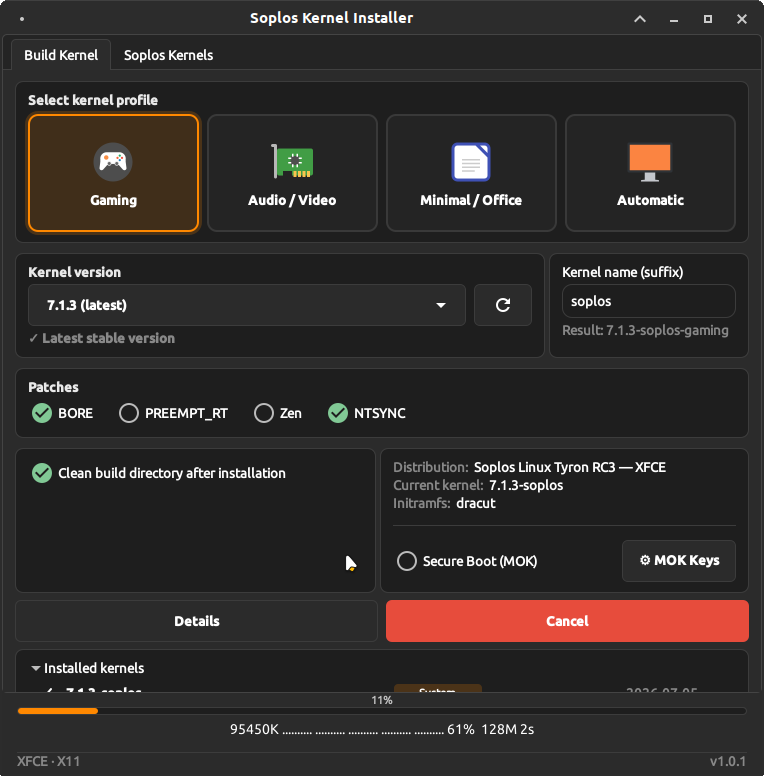
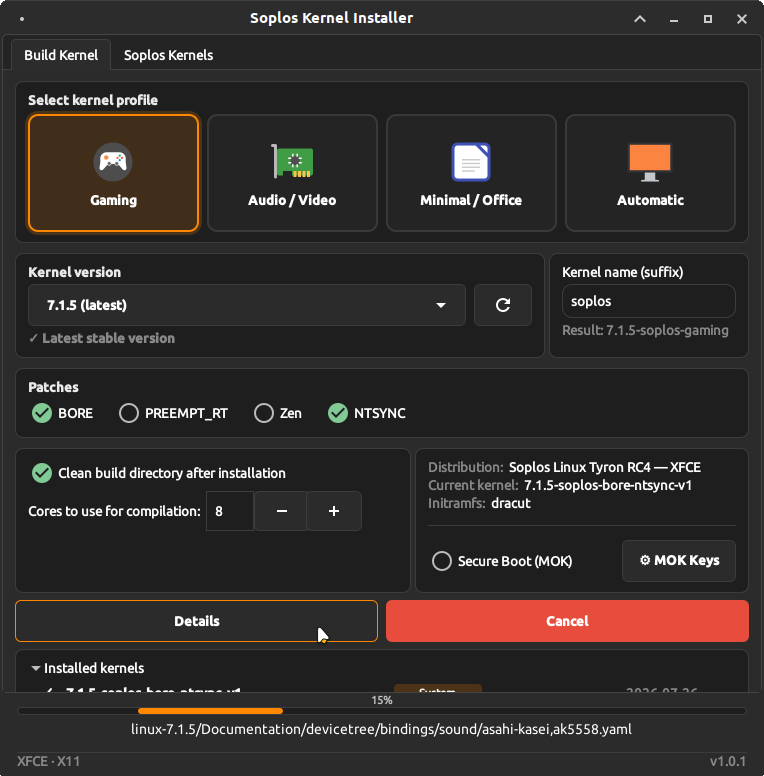
Update soplos kernel installer

diff --git a/app/main_window.py b/app/main_window.py
@@ -30,7 +30,7 @@ from core.profiles import ProfileType
 from config.constants import APP_VERSION as VERSION
 from utils.system import (
     reboot_system, get_build_directory, get_supported_march_level,
-    get_cpu_model, get_memory_info,
+    get_cpu_model, get_memory_info, get_cpu_count,
 )
 
 
@@ -192,6 +192,20 @@ class SoplosKernelInstallerWindow(Gtk.ApplicationWindow):
         )
         self._cleanup_check.set_active(True)
         options_inner.pack_start(self._cleanup_check, False, False, 0)
+
+        cores_row = Gtk.Box(orientation=Gtk.Orientation.HORIZONTAL, spacing=6)
+        cores_label = Gtk.Label(label=_("Cores to use for compilation:"))
+        cores_row.pack_start(cores_label, False, False, 0)
+
+        max_cores = get_cpu_count()
+        self._cores_spin = Gtk.SpinButton.new_with_range(1, max_cores, 1)
+        self._cores_spin.set_value(max_cores)
+        self._cores_spin.set_tooltip_text(
+            _("Number of CPU cores passed to make -j. Defaults to all logical cores ({}).").format(max_cores)
+        )
+        cores_row.pack_start(self._cores_spin, False, False, 0)
+
+        options_inner.pack_start(cores_row, False, False, 0)
 
         options_frame.add(options_inner)
         row3.pack_start(options_frame, True, True, 0)
@@ -435,6 +449,32 @@ class SoplosKernelInstallerWindow(Gtk.ApplicationWindow):
         repo_frame.add(repo_inner)
         box.pack_start(repo_frame, False, False, 0)
 
+        # Filters card — its own card, same pattern as repo_frame/kernels_frame,
+        # so the split from the kernels list is an actual card boundary, not a
+        # thin in-card separator line that's too subtle to notice on dark themes.
+        filters_frame = Gtk.Frame()
+        filters_frame.get_style_context().add_class('soplos-card')
+        filter_row = Gtk.Box(orientation=Gtk.Orientation.HORIZONTAL, spacing=8)
+
+        flavor_label = Gtk.Label(label=_("Profile:"))
+        filter_row.pack_start(flavor_label, False, False, 0)
+        self._kernel_flavor_filter = Gtk.ComboBoxText()
+        self._kernel_flavor_filter.append("all", _("All"))
+        self._kernel_flavor_filter.set_active_id("all")
+        self._kernel_flavor_filter.connect('changed', lambda w: self._on_kernel_filter_changed())
+        filter_row.pack_start(self._kernel_flavor_filter, False, False, 0)
+
+        march_label = Gtk.Label(label=_("Version:"))
+        filter_row.pack_start(march_label, False, False, 0)
+        self._kernel_march_filter = Gtk.ComboBoxText()
+        self._kernel_march_filter.append("all", _("All"))
+        self._kernel_march_filter.set_active_id("all")
+        self._kernel_march_filter.connect('changed', lambda w: self._on_kernel_filter_changed())
+        filter_row.pack_start(self._kernel_march_filter, False, False, 0)
+
+        filters_frame.add(filter_row)
+        box.pack_start(filters_frame, False, False, 0)
+
         # Kernels list card
         kernels_frame = Gtk.Frame()
         kernels_frame.get_style_context().add_class('soplos-card')
@@ -455,11 +495,12 @@ class SoplosKernelInstallerWindow(Gtk.ApplicationWindow):
         return scroll
 
     @staticmethod
-    def _soplos_pkg_display_name(pkg: str) -> str:
+    def _soplos_pkg_flavor_and_march(pkg: str):
+        """Split a linux-soplos* package name into (profile label, march label or None)."""
         _MARCH = {'v1', 'v2', 'v3', 'v4'}
         suffix = pkg[len('linux-soplos'):]
         if not suffix:
-            return _("Stock")
+            return (_("Stock"), None)
         parts = suffix.lstrip('-').split('-')
         march = parts[-1] if parts[-1] in _MARCH else None
         flavor = parts[:-1] if march else parts
@@ -469,7 +510,12 @@ class SoplosKernelInstallerWindow(Gtk.ApplicationWindow):
             label = '-'.join(flavor).upper()
         else:
             label = '-'.join(flavor).replace('-', ' ').title()
-        return f"{label} {march.upper()}" if march else label
+        return (label, march.upper() if march else None)
+
+    @staticmethod
+    def _soplos_pkg_display_name(pkg: str) -> str:
+        label, march = SoplosKernelInstallerWindow._soplos_pkg_flavor_and_march(pkg)
+        return f"{label} {march}" if march else label
 
     def _fetch_soplos_packages(self) -> None:
         def fetch():
@@ -546,6 +592,37 @@ class SoplosKernelInstallerWindow(Gtk.ApplicationWindow):
         self._soplos_updates = updates
         self._soplos_versions = versions
         self._soplos_apt_registered = apt_registered
+        self._populate_kernel_filters()
+        self._rebuild_kernels_list()
+        self._refresh_soplos_kernels_tab()
+
+    def _populate_kernel_filters(self) -> None:
+        """Fill the profile/version filter combos from the packages actually
+        present in the repo, so they never show a march level or profile that
+        isn't currently available (and pick up new ones — e.g. Zen — for free)."""
+        flavors = set()
+        marches = set()
+        for pkg, _name, _desc, _suffix in self._soplos_packages:
+            flavor, march = self._soplos_pkg_flavor_and_march(pkg)
+            flavors.add(flavor)
+            if march:
+                marches.add(march)
+
+        def _refill(combo: Gtk.ComboBoxText, values) -> None:
+            previous = combo.get_active_id()
+            combo.remove_all()
+            combo.append("all", _("All"))
+            for v in sorted(values):
+                combo.append(v, v)
+            combo.set_active_id(previous if previous in ({"all"} | values) else "all")
+
+        _refill(self._kernel_flavor_filter, flavors)
+        _refill(self._kernel_march_filter, marches)
+
+    def _on_kernel_filter_changed(self) -> None:
+        """Re-render the kernel list for the new filter selection. Buttons are
+        recreated blank by _rebuild_kernels_list() — _refresh_soplos_kernels_tab()
+        is what actually sets their label/style, so both must run together."""
         self._rebuild_kernels_list()
         self._refresh_soplos_kernels_tab()
 
@@ -564,8 +641,30 @@ class SoplosKernelInstallerWindow(Gtk.ApplicationWindow):
             self._kernels_rows.show_all()
             return
 
+        flavor_filter = self._kernel_flavor_filter.get_active_id() or "all"
+        march_filter = self._kernel_march_filter.get_active_id() or "all"
+
+        visible_packages = []
+        for entry in self._soplos_packages:
+            pkg = entry[0]
+            flavor, march = self._soplos_pkg_flavor_and_march(pkg)
+            if flavor_filter != "all" and flavor != flavor_filter:
+                continue
+            if march_filter != "all" and march != march_filter:
+                continue
+            visible_packages.append(entry)
+
+        if not visible_packages:
+            lbl = Gtk.Label(label=_("No kernels match the selected filters"))
+            lbl.get_style_context().add_class('dim-label')
+            lbl.set_margin_top(8)
+            lbl.set_margin_bottom(8)
+            self._kernels_rows.pack_start(lbl, False, False, 0)
+            self._kernels_rows.show_all()
+            return
+
         first = True
-        for pkg, name, desc, _suffix in self._soplos_packages:
+        for pkg, name, desc, _suffix in visible_packages:
             if not first:
                 self._kernels_rows.pack_start(Gtk.Separator(), False, False, 0)
             first = False
@@ -1723,6 +1822,7 @@ class SoplosKernelInstallerWindow(Gtk.ApplicationWindow):
 
         is_stock = (profile.id == ProfileType.STOCK)
         march_level = self._march_selector.get_march_level() if is_stock else None
+        cpu_count = int(self._cores_spin.get_value())
 
         def run_install():
             log_path = os.path.join(os.path.expanduser('~'), 'kernel_build', 'build.log')
@@ -1743,6 +1843,7 @@ class SoplosKernelInstallerWindow(Gtk.ApplicationWindow):
                 build_only=is_stock,
                 march_level=march_level,
                 enable_sched_ext=is_stock,
+                cpu_count=cpu_count,
             )
             GLib.idle_add(self._on_build_finished, success)
 

diff --git a/core/installer.py b/core/installer.py
@@ -211,10 +211,15 @@ class SoplosInstaller:
     # Build
     # ------------------------------------------------------------------
 
-    def build(self, version: str) -> bool:
-        """Compile the kernel as Debian packages."""
+    def build(self, version: str, cpu_count: Optional[int] = None) -> bool:
+        """Compile the kernel as Debian packages.
+
+        cpu_count: user-chosen core count for `make -j`. None (or < 1) falls
+        back to the logical core count — same as before this was configurable.
+        """
         source_dir = os.path.join(self._build_dir, f"linux-{version}")
-        cpu_count = get_cpu_count()
+        if not cpu_count or cpu_count < 1:
+            cpu_count = get_cpu_count()
 
         self._report_progress(f"Compiling with {cpu_count} cores...", 30)
 

diff --git a/core/kernel.py b/core/kernel.py
@@ -266,6 +266,7 @@ class KernelManager:
         build_only: bool = False,
         march_level: Optional[str] = None,
         enable_sched_ext: bool = False,
+        cpu_count: Optional[int] = None,
     ) -> bool:
         """
         Full kernel install:
@@ -362,7 +363,7 @@ class KernelManager:
 
             # 4. Build
             self._report_progress("Building kernel...", 30)
-            if not self._installer.build(version):
+            if not self._installer.build(version, cpu_count):
                 return False
 
             if is_cancelled():

diff --git a/setup.py b/setup.py
@@ -3,7 +3,7 @@ from pathlib import Path
 
 setup(
     name="soplos-kernel-installer",
-    version="1.0.1-6",
+    version="1.0.1-7",
     description="Soplos Linux Kernel Installer with patches and optimized profiles",
     author="Sergi Perich",
     author_email="info@soploslinux.com",

diff --git a/README.md b/README.md
@@ -1,7 +1,7 @@
 # Soplos Kernel Installer
 
 [![License: GPL-3.0+](https://img.shields.io/badge/License-GPL--3.0%2B-blue.svg)](https://www.gnu.org/licenses/gpl-3.0)
-[![Version](https://img.shields.io/badge/version-1.0.1--6-green.svg)]()
+[![Version](https://img.shields.io/badge/version-1.0.1--7-green.svg)]()
 
 GTK3 graphical frontend for downloading, patching, compiling and installing the Linux kernel on Soplos Linux.
 
@@ -28,7 +28,13 @@ Soplos Kernel Installer is a comprehensive graphical tool for downloading, patch
 - 📦 **Soplos Kernels**: Install pre-built Stock, BORE, BORE+NTSYNC, Zen, NTSYNC and Real-Time (PREEMPT_RT) kernels from the official Soplos repository — no compilation required, list loaded dynamically from apt-cache
 - 🌍 **8-language interface**: 🇩🇪 🇬🇧 🇪🇸 🇫🇷 🇮🇹 🇵🇹 🇷🇴 🇷🇺
 
-### 🚀 Recent Updates (v1.0.1-6)
+### 🚀 Recent Updates (v1.0.1-7)
+- **Added**: Core count selector for compilation — spin button next to the cleanup option, defaults to all logical cores, available in both regular and Stock modes.
+- **Added**: Profile and Version (V1–V4) filters in the Soplos Kernels tab, populated from whatever's actually in the repo.
+- **Fixed**: Kernel list filters no longer leave "Install"/"Remove" buttons blank until a manual refresh.
+- **Fixed**: The filters row now sits in its own card instead of a barely-visible separator line.
+
+### Previous Updates (v1.0.1-6)
 - **Fixed**: BORE/Zen patch sources that downloaded successfully but failed to apply against the current kernel point release no longer abort the build — they're now verified with a dry-run apply and the next source in the fallback chain is tried automatically.
 - **Fixed**: Selecting Zen no longer silently builds a kernel that still runs mainline CFS/EEVDF — `CONFIG_SCHED_ALT`/`CONFIG_SCHED_PDS` are now forced on (Zen's own Kconfig default for `SCHED_ALT` is "n", unlike BORE's "y"). Confirmed on real hardware: the alternate scheduler is genuinely active at boot, not just compiled in.
 - **Added**: [SoplosLinux/bore-soplos](https://github.com/SoplosLinux/bore-soplos) and [SoplosLinux/zen-soplos](https://github.com/SoplosLinux/zen-soplos) as fallback patch sources for BORE and Zen, used only when upstream hasn't published a working patch for the requested kernel version yet.

diff --git a/CHANGELOG.md b/CHANGELOG.md
@@ -5,6 +5,16 @@ All notable changes to this project will be documented in this file.
 The format is based on [Keep a Changelog](https://keepachangelog.com/en/1.0.0/),
 and this project adheres to [Semantic Versioning](https://semver.org/lang/en/).
 
+## [1.0.1-7] - 2026-07-26
+
+### Added
+- **Core count selector**: the "Compile kernel" tab now has a spin button ("Cores to use for compilation") next to the cleanup checkbox, defaulting to all logical cores. Available for both regular profiles and Stock/developer mode — not gated behind either. Threaded through `full_install()` → `installer.build()`; `make -j{n}` uses the chosen value instead of always auto-detecting.
+- **Soplos Kernels tab: profile/version filters**: two dropdowns ("Profile" and "Version") above the kernel list, populated dynamically from the packages actually present in the repo (so a newly published flavor like Zen shows up on its own, nothing hardcoded). Filtering by profile, by march level (V1–V4), or both.
+
+### Fixed
+- Changing a kernel-list filter left the "Install"/"Remove" buttons blank until something else (like clicking Refresh) triggered a full re-render — `_rebuild_kernels_list()` recreates buttons without a label, and only `_refresh_soplos_kernels_tab()` actually sets it. Filter changes now trigger both.
+- The filter row was visually stuck to the top of the kernel list with no clear boundary — moved into its own card (same visual pattern as the repository status and kernel list cards) instead of a single-pixel in-card separator that wasn't noticeable on the dark theme.
+
 ## [1.0.1-6] - 2026-07-26
 
 ### Fixed
